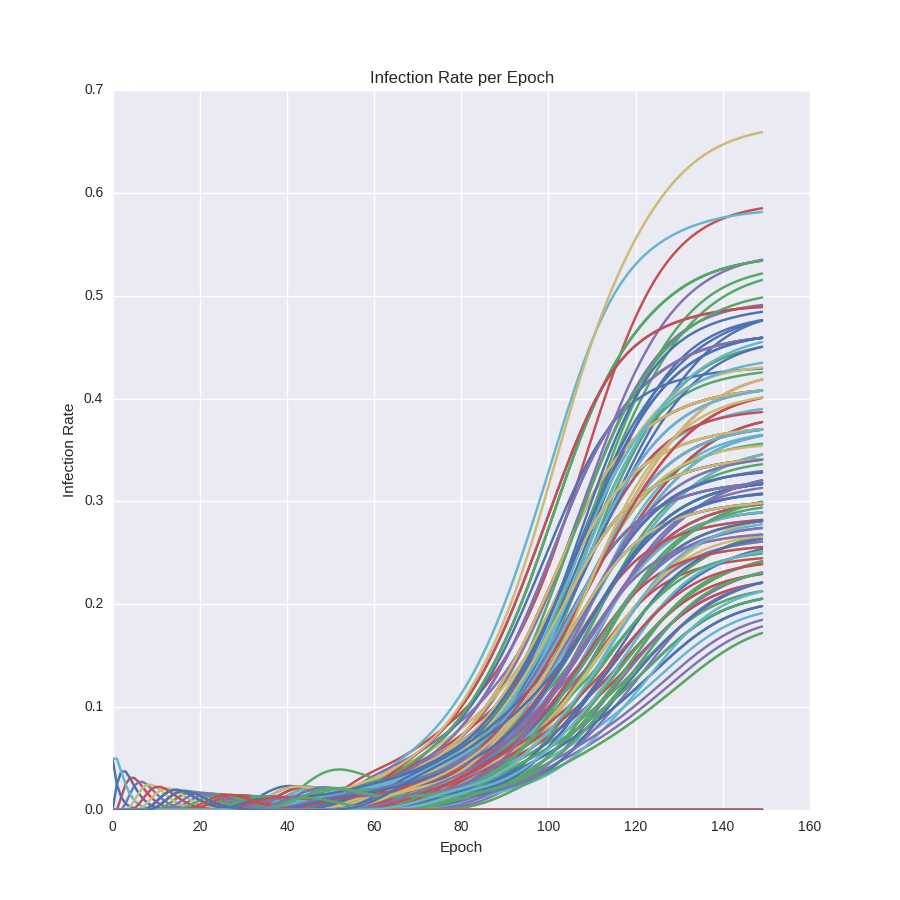
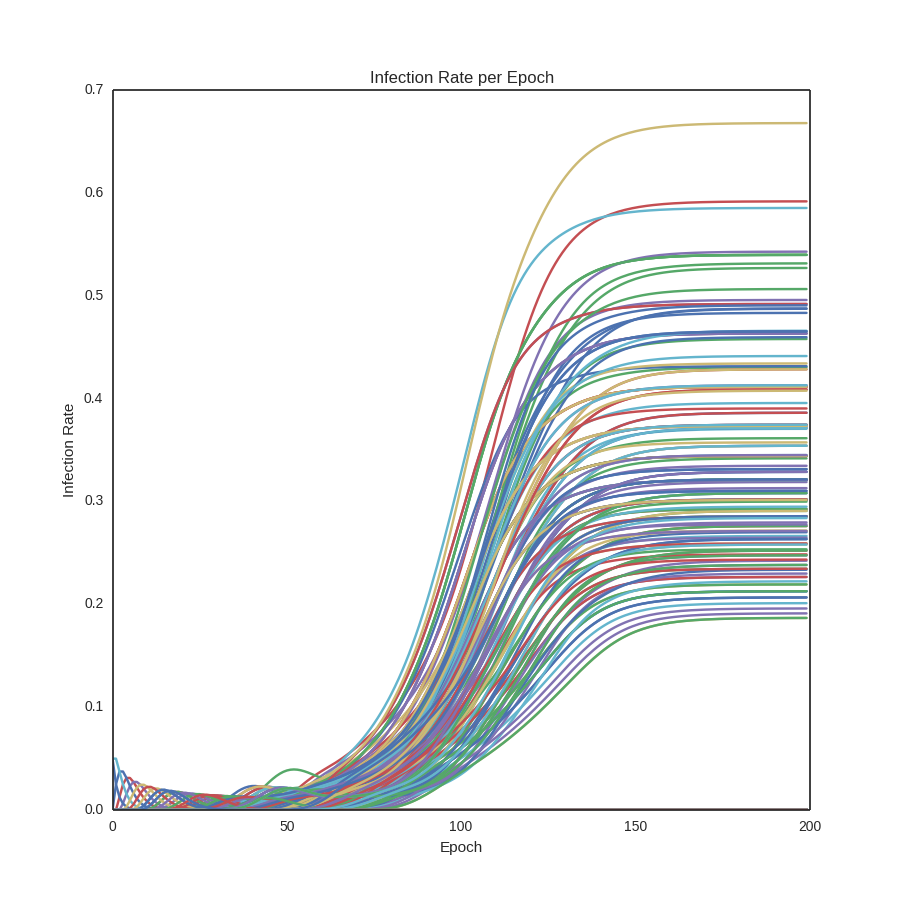
I hate commit messages.

diff --git a/only.py b/only.py
@@ -10,6 +10,7 @@ matplotlib.use("Agg")
 import matplotlib.pyplot as plt
 import matplotlib.animation as ani
 import seaborn as sns
+sns.set_style("white")
 
 # source: OWLTRAD http://www.ciolek.com/OWTRAD/DATA/tmcZWEm1300a.html
 def read (path):
@@ -83,6 +84,6 @@ if __name__ == "__main__":
     H = iterpulse(T, P, e)
     print "Plotting..."
     plot(H,"plots/time_series.png")
-    print "Animating..."
-    graph(G, N, H, e, "plots/network.mp4")
-    print "Complete"
+    #print "Animating..."
+    #graph(G, N, H, e, "plots/network.mp4")
+    #print "Complete"
